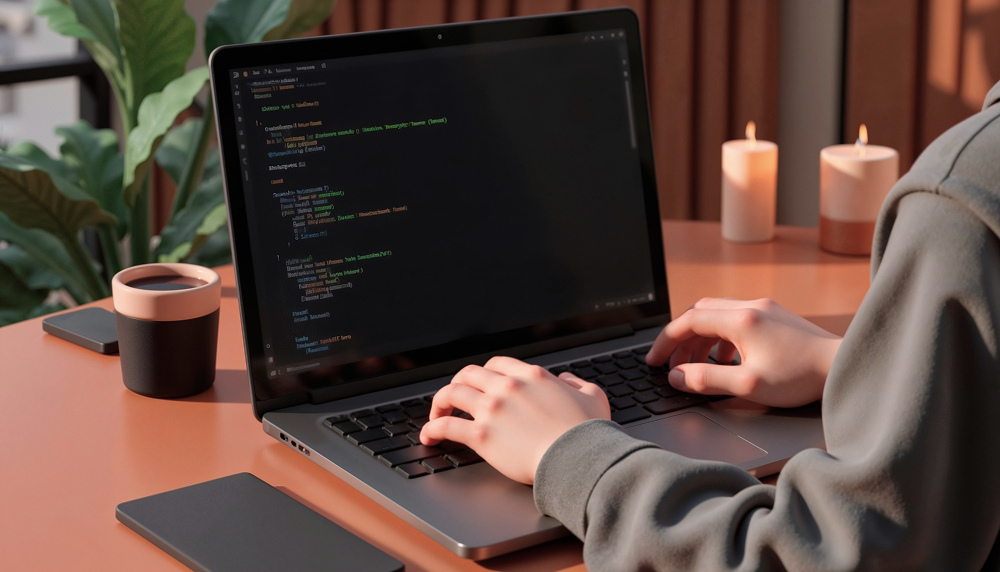
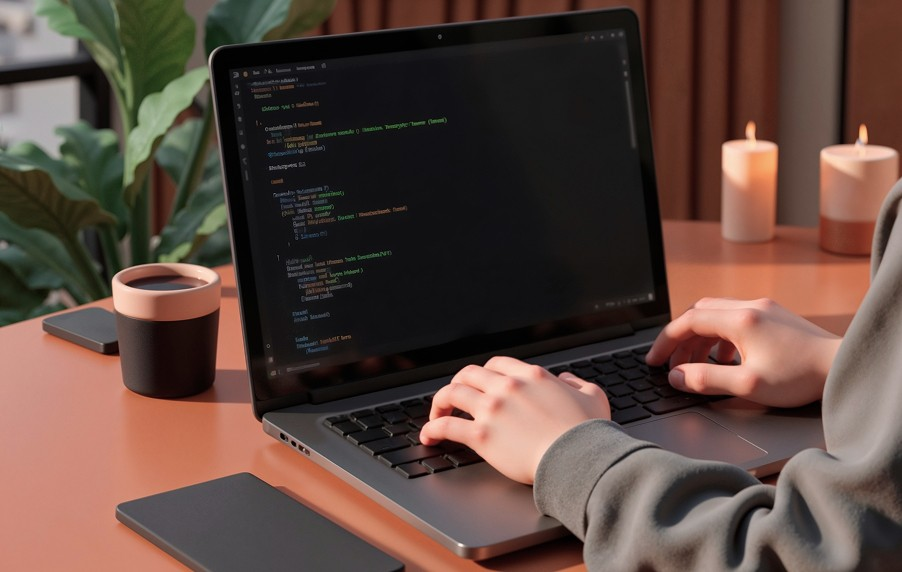
alexmikhailov-19

diff --git a/print-layout.html b/print-layout.html
@@ -114,7 +114,7 @@
                     <div class="col-lg-5 position-relative hero-img-col">
                         <div class="hero-img-wrapper">
                             <!-- Замените картинку на скриншот верстки (например, разворот книги в InDesign) -->
-                            <img src="assets/img/services-sites.jpg" alt="Дизайн и многостраничная верстка печатных изданий" class="hero-img">
+                            <img src="assets/img/services-print.jpg" alt="Дизайн и многостраничная верстка печатных изданий" class="hero-img">
                         </div>
                     </div>
                 </div>

diff --git a/site-audit.html b/site-audit.html
@@ -114,7 +114,7 @@
                     <div class="col-lg-5 position-relative hero-img-col">
                         <div class="hero-img-wrapper">
                             <!-- Замените картинку на скриншот аудита (например, анализ в браузере) -->
-                            <img src="assets/img/services-sites.jpg" alt="Анализ и аудит удобства старого сайта" class="hero-img">
+                            <img src="assets/img/services-seo.jpg" alt="Анализ и аудит удобства старого сайта" class="hero-img">
                         </div>
                     </div>
                 </div>

diff --git a/web-design.html b/web-design.html
@@ -114,7 +114,7 @@
                     <div class="col-lg-5 position-relative hero-img-col">
                         <div class="hero-img-wrapper">
                             <!-- Замените картинку на скриншот дизайна (например, макет в Figma) -->
-                            <img src="assets/img/services-sites.jpg" alt="UX/UI Проектирование и дизайн сайтов" class="hero-img">
+                            <img src="assets/img/services-design.jpg" alt="UX/UI Проектирование и дизайн сайтов" class="hero-img">
                         </div>
                     </div>
                 </div>
